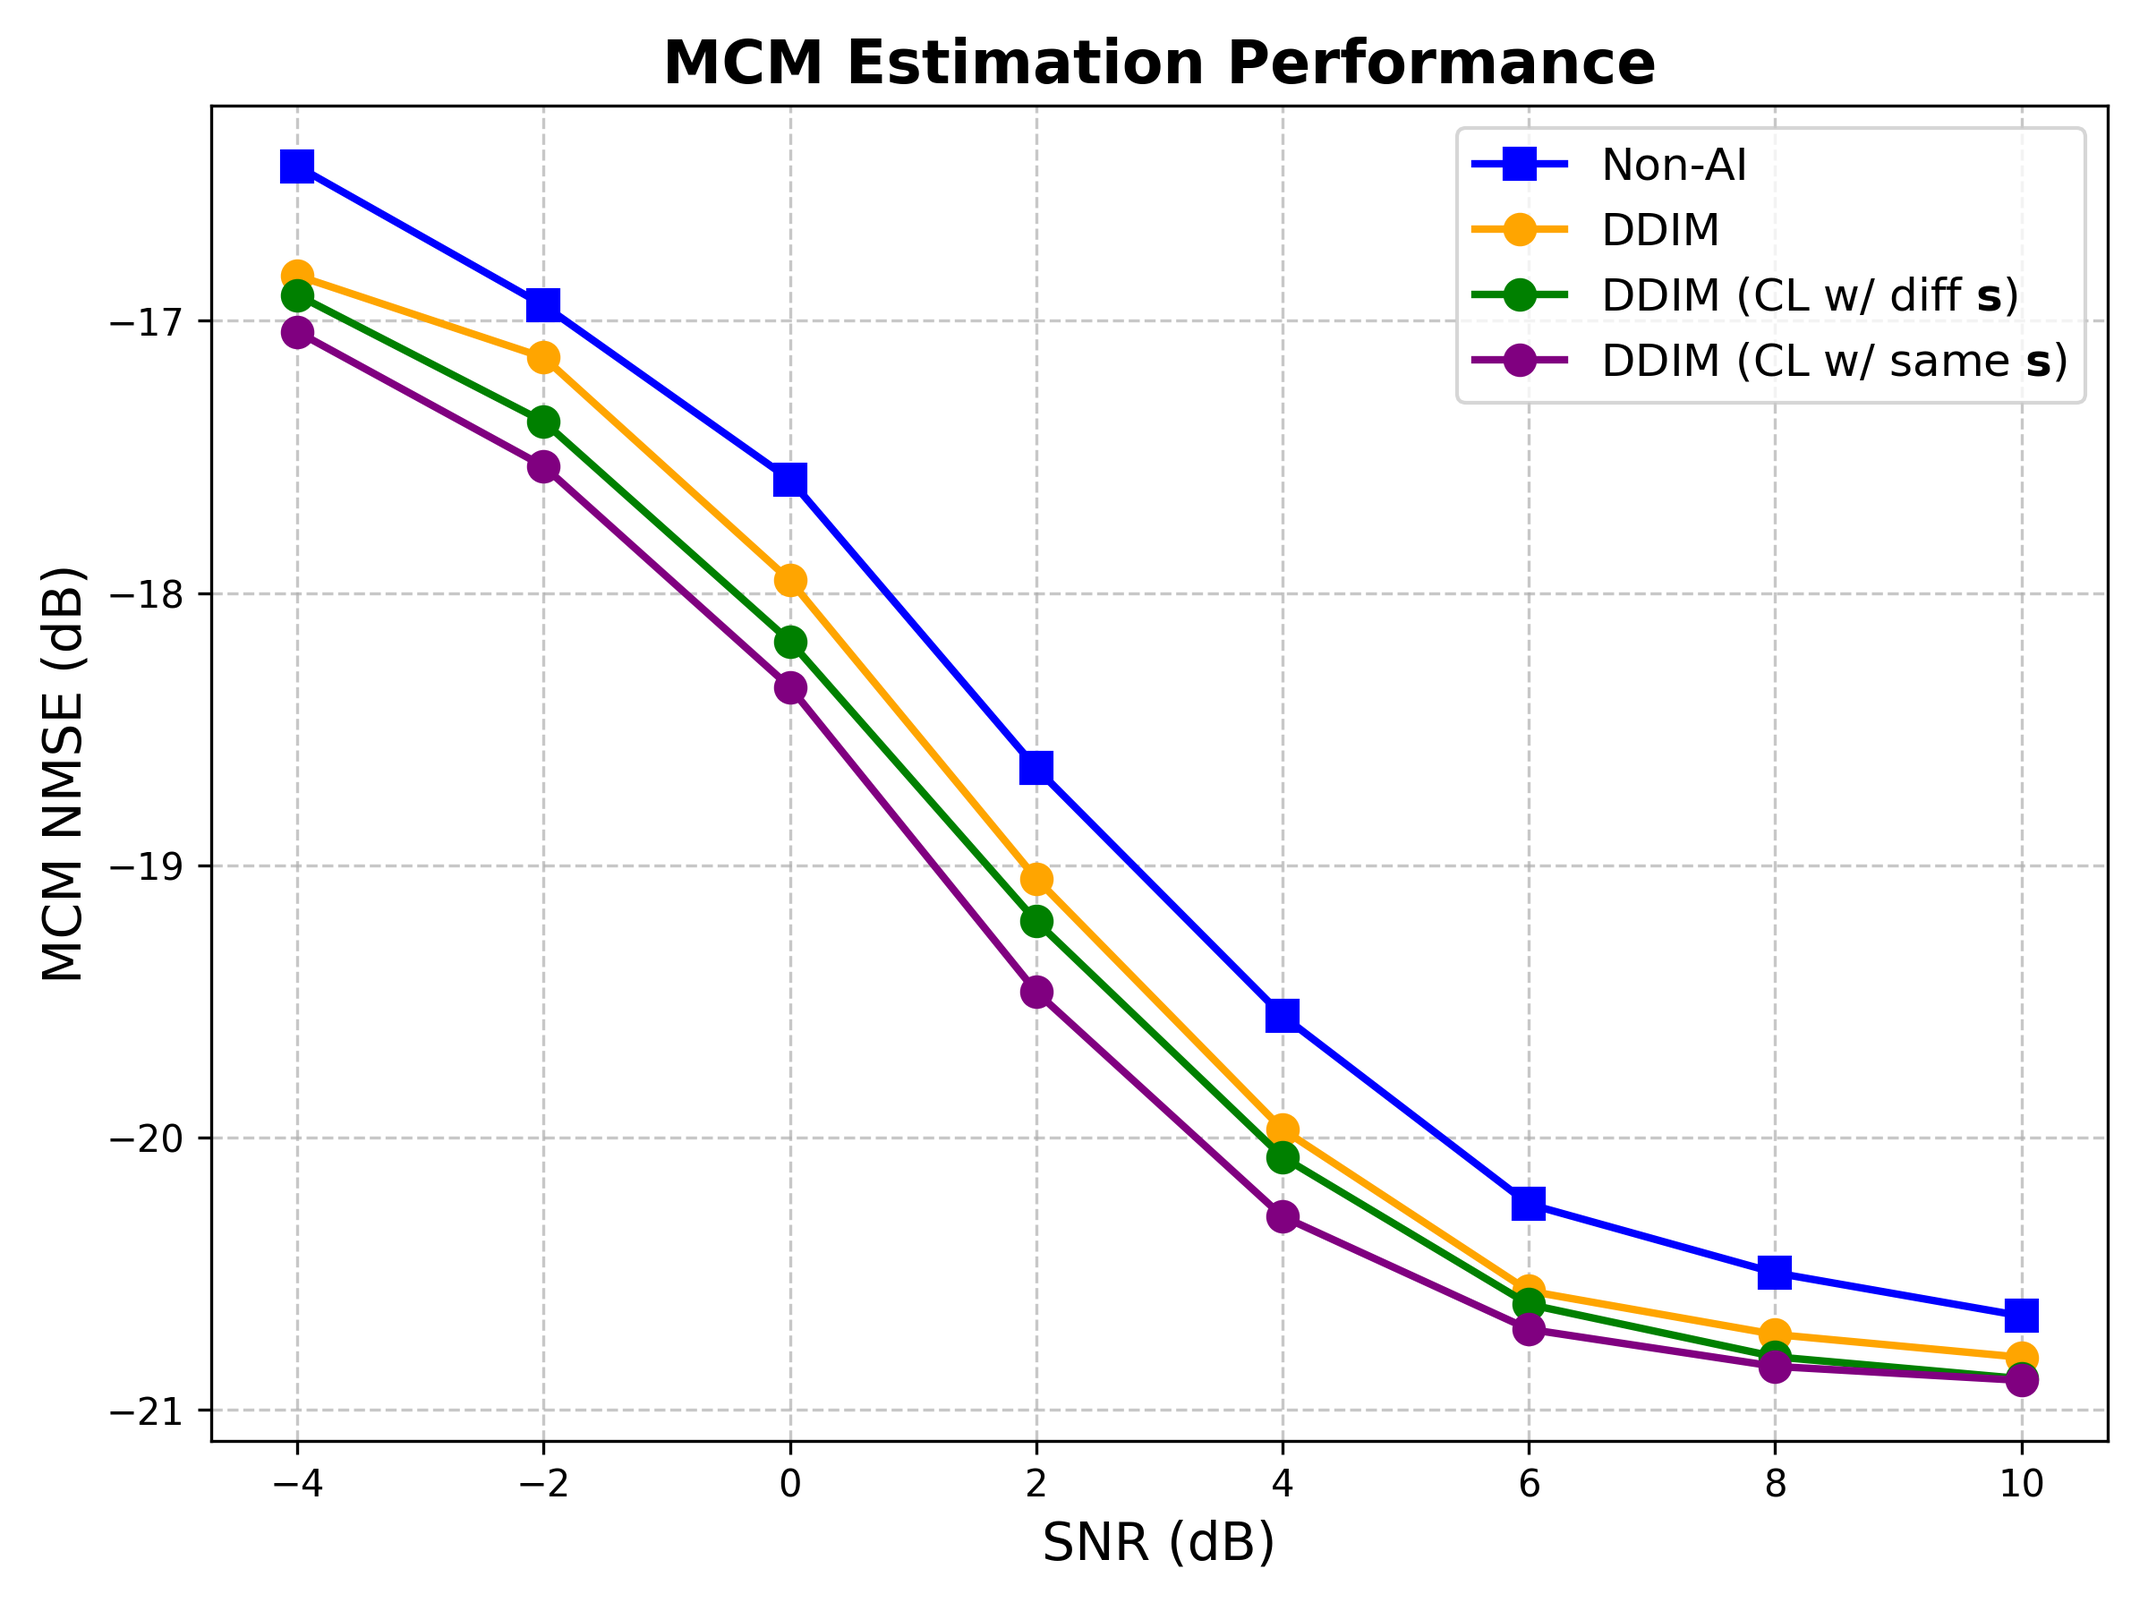
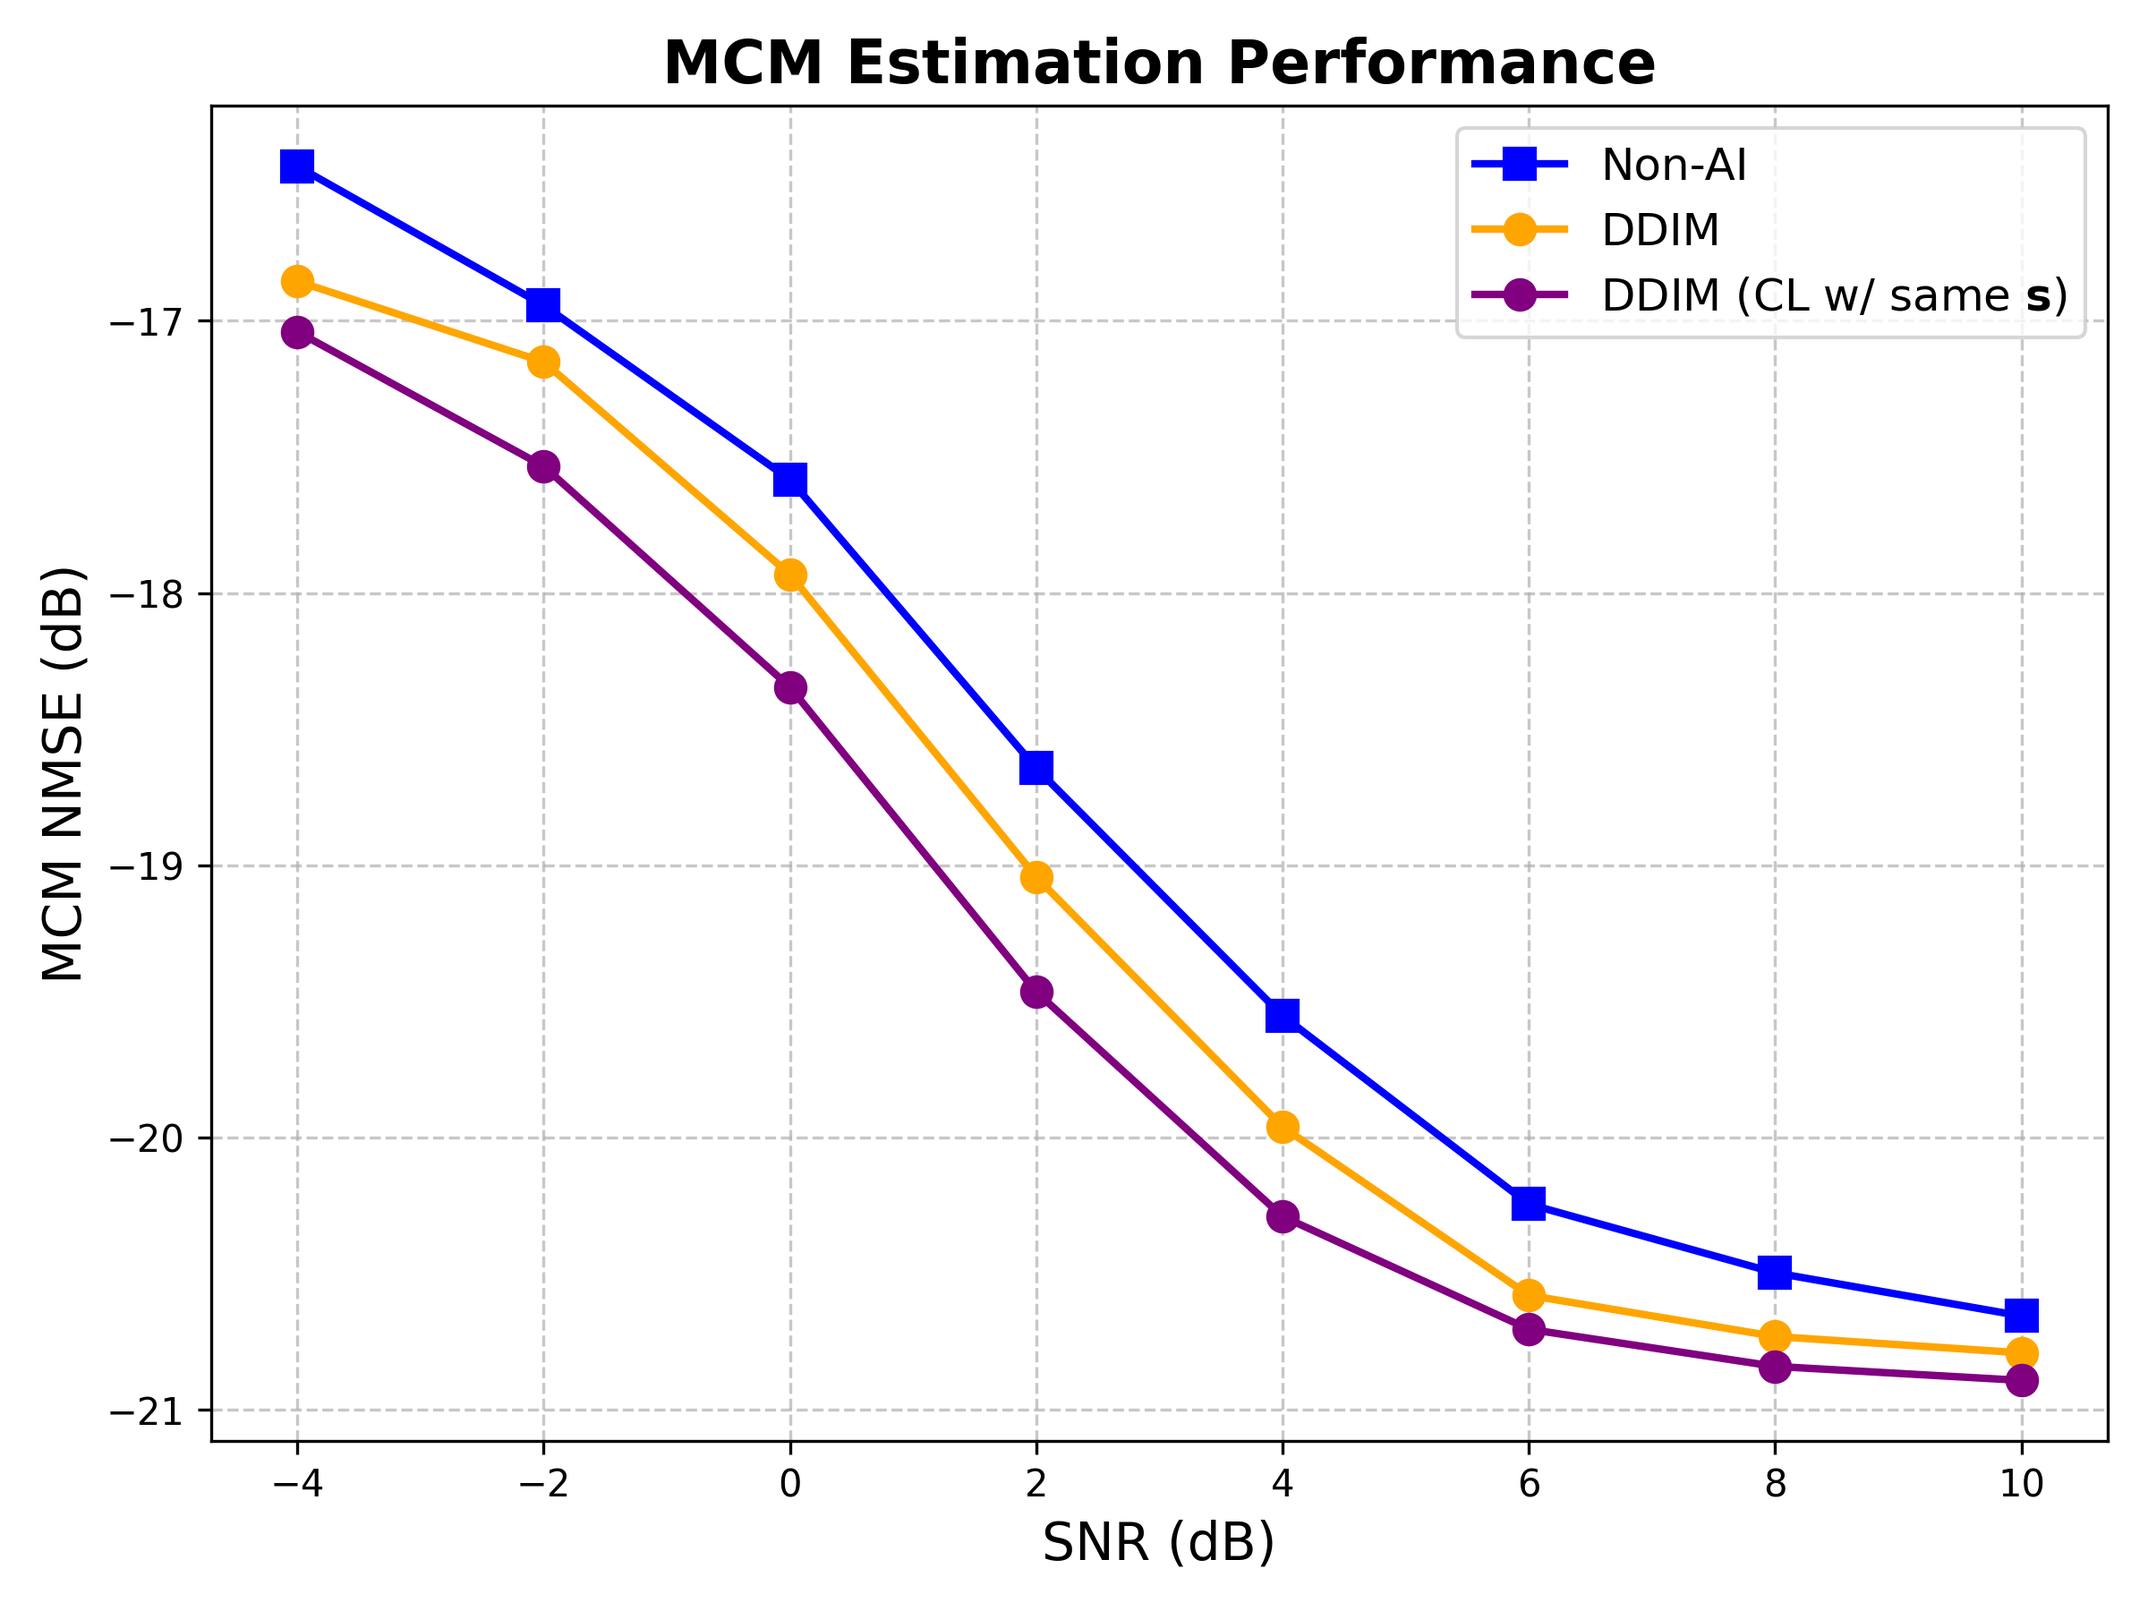
refactor: unify training scripts and update documentation
- Codebase: Replaced legacy dynamic lambda scripts with a unified `main_non_CL.py` that shares the CL architectural pipeline.
- Docs: Updated README with core method descriptions, repository structure, and testing procedures.

diff --git a/sim2/DDIM/main_non_CL.py b/sim2/DDIM/main_non_CL.py
@@ -13,7 +13,7 @@ SNR_LEVELS=[-4, -2, 0, 2, 4, 6, 8, 10]
 CUDA = 0
 
 # Training settings
-NUM_EPOCHS = 1000
+NUM_EPOCHS = 10000
 TRAIN_BATCH_SIZE = 1024
 LR = 1e-3
 MODEL_TYPE = 'mlp'  # 'unet1d' or 'mlp'
@@ -21,6 +21,8 @@ NUM_TRAIN_SAMPLES = int(5000)  # try 1e5
 NUM_TEST_SAMPLES = int(3000)    
 VAL_SPLIT = 0.1
 PATIENCE = 15
+contrastive_weight = 0
+temperature = 0.2
 
 # Difussion process settings
 BETA_MIN=1e-4
@@ -31,8 +33,8 @@ GUIDANCE_LAMBDA=1.2
 
 # testing settings
 TEST_BATCH_SIZE = 3000
-MODEL_WEIGHT_FILE_NAME = f"DDIM_{MODEL_TYPE}_lr{LR:.0e}_t{int(T_DIFFUSION)}.pth"
-NMSE_RESULT_FILE_NAME = f"NMSE_dy_{MODEL_WEIGHT_FILE_NAME.split('.')[0]}.mat"
+MODEL_WEIGHT_FILE_NAME = f"CL{contrastive_weight:.0e}_temp{temperature:.0e}_{MODEL_TYPE}lr{LR:.0e}.pth"
+NMSE_RESULT_FILE_NAME = f"NMSE_{MODEL_WEIGHT_FILE_NAME.split('.')[0]}.mat"
 
 # -----------------------------
 
@@ -45,7 +47,7 @@ torch.manual_seed(0)
 # -----------------------------
 if MODE == 'train':
     from data.data_loader import get_or_create_training_dataset
-    from train import train_epsilon_net
+    from train import train_latent_epsnet
     # -----------------------------
     # Load/generate training data
     # -----------------------------
@@ -56,10 +58,11 @@ if MODE == 'train':
     # -----------------------------
     print('[Info] Training epsilon net...')
     # Original: 'unet1d'
-    eps_net = train_epsilon_net(Xs_train, MODEL_TYPE, NUM_EPOCHS, TRAIN_BATCH_SIZE, LR,
+    eps_net = train_latent_epsnet(Xs_train, MODEL_TYPE, NUM_EPOCHS, TRAIN_BATCH_SIZE, LR,
                                 BETA_MIN, BETA_MAX, T_DIFFUSION, 
                                 VAL_SPLIT, PATIENCE,
-                                device, script_dir, MODEL_WEIGHT_FILE_NAME)
+                                device, script_dir, MODEL_WEIGHT_FILE_NAME,
+                                contrastive_weight, temperature)
 
 # -----------------------------
 # Testing part
@@ -77,7 +80,7 @@ elif MODE == 'test':
                                                 device, script_dir, use_toeplitz=True)
 
     print(f'[Info] Loading model...')
-    eps_net, data_mean, data_std = load_trained_model(script_dir, device, N, MODEL_TYPE, MODEL_WEIGHT_FILE_NAME)
+    eps_net, data_mean, data_std = load_trained_model(script_dir, device, N, MODEL_TYPE, MODEL_WEIGHT_FILE_NAME, use_CL=False)
 
     theta_nmse_results = []
     M_nmse_results = []

diff --git a/sim2/DDIM/models/epsnet_mlp.py b/sim2/DDIM/models/epsnet_mlp.py
@@ -6,6 +6,49 @@ class EpsNetMLP(nn.Module):
         super().__init__()
         # Time embedding block (unchanged)
         self.time_emb = nn.Sequential(
+            nn.Linear(1, time_emb_dim), nn.ReLU(), nn.Linear(time_emb_dim, time_emb_dim), nn.ReLU()
+        )
+        
+        # 1. Feature Extractor (The "Encoder")
+        # This produces the latent vector 'z' we want to contrast
+        self.feature_net = nn.Sequential(
+            nn.Linear(dim + time_emb_dim, hidden), nn.ReLU(),
+            nn.Linear(hidden, hidden), nn.ReLU()
+        )
+        
+        # 2. Output Head (The "Decoder")
+        # Projects 'z' back to the noise dimension
+        self.head = nn.Linear(hidden, dim)
+
+    def forward(self, x, t_cont, return_embedding=False):
+        # x: (B, dim)
+        # Handle time input shape normalization (unchanged logic)
+        if t_cont.dim() == 0 or (t_cont.dim() == 1 and t_cont.shape[-1] == 1):
+             # Ensure shape (B, 1) if scalar or (B,) passed
+             if t_cont.numel() == 1:
+                 t_in = t_cont.float().view(1, 1).expand(x.shape[0], -1)
+             else:
+                 t_in = t_cont.float().view(-1, 1)
+        else:
+            t_in = (t_cont.float().unsqueeze(-1))
+        t_in = t_in / 1000.0  # normalize time input
+        te = self.time_emb(t_in)
+        inp = torch.cat([x, te], dim=-1)
+        
+        # 1. Extract Features (Embedding z)
+        z = self.feature_net(inp)
+        # 2. Predict Noise
+        out = self.head(z)
+        if return_embedding:
+            return out, z
+        else:
+            return out
+
+class LatentEpsNet(nn.Module):
+    def __init__(self, dim, hidden=512, time_emb_dim=128):
+        super().__init__()
+        # Time embedding block (unchanged)
+        self.time_emb = nn.Sequential(
             nn.Linear(1, time_emb_dim), 
             nn.ReLU(), 
             nn.Linear(time_emb_dim, time_emb_dim), 

diff --git a/sim2/DDIM/main_contrastive_learning.py b/sim2/DDIM/main_contrastive_learning.py
@@ -47,7 +47,7 @@ torch.manual_seed(0)
 # -----------------------------
 if MODE == 'train':
     from data.data_loader import get_or_create_training_dataset
-    from train import train_epsilon_net
+    from train import train_latent_epsnet
     # -----------------------------
     # Load/generate training data
     # -----------------------------
@@ -58,7 +58,7 @@ if MODE == 'train':
     # -----------------------------
     print('[Info] Training epsilon net...')
     # Original: 'unet1d'
-    eps_net = train_epsilon_net(Xs_train, MODEL_TYPE, NUM_EPOCHS, TRAIN_BATCH_SIZE, LR,
+    eps_net = train_latent_epsnet(Xs_train, MODEL_TYPE, NUM_EPOCHS, TRAIN_BATCH_SIZE, LR,
                                 BETA_MIN, BETA_MAX, T_DIFFUSION, 
                                 VAL_SPLIT, PATIENCE,
                                 device, script_dir, MODEL_WEIGHT_FILE_NAME,
@@ -80,7 +80,7 @@ elif MODE == 'test':
                                                 device, script_dir, use_toeplitz=True)
 
     print(f'[Info] Loading model...')
-    eps_net, data_mean, data_std = load_trained_model(script_dir, device, N, MODEL_TYPE, MODEL_WEIGHT_FILE_NAME)
+    eps_net, data_mean, data_std = load_trained_model(script_dir, device, N, MODEL_TYPE, MODEL_WEIGHT_FILE_NAME, use_CL=True)
 
     theta_nmse_results = []
     M_nmse_results = []

diff --git a/sim2/DDIM/train.py b/sim2/DDIM/train.py
@@ -26,7 +26,7 @@ def info_nce_loss(features_a, features_b, temperature=0.1):
 
     return F.cross_entropy(logits, labels)
 
-def train_epsilon_net(Xs, model_type='mlp', num_epochs=5, batch_size=64, lr=1e-3,
+def train_latent_epsnet(Xs, model_type='mlp', num_epochs=5, batch_size=64, lr=1e-3,
                       beta_min=1e-4, beta_max=0.02, T=50,
                       val_split=0.1, patience=15, # Early stopping params
                       device=None, script_dir=None, model_file_name=None,
@@ -72,7 +72,8 @@ def train_epsilon_net(Xs, model_type='mlp', num_epochs=5, batch_size=64, lr=1e-3
     print(f"[Info] Training Scenarios: {num_train_s} (x{Lloc} snapshots) | Validation Snapshots: {num_val_total}")
 
     # --- 2. Model & Optimizer Setup ---
-    from models.epsnet_mlp import EpsNetMLP as Net
+    if contrastive_weight != 0.0: from models.epsnet_mlp import LatentEpsNet as Net
+    else: from models.epsnet_mlp import EpsNetMLP as Net
     net = Net(dim=dim, hidden=1024, time_emb_dim=128).to(device)
     
     opt = torch.optim.Adam(net.parameters(), lr=lr)
@@ -226,3 +227,4 @@ def train_epsilon_net(Xs, model_type='mlp', num_epochs=5, batch_size=64, lr=1e-3
             print(f"Best model saved to {save_path}")
 
     return net
+

diff --git a/sim2/DDIM/models/eps_net_loader.py b/sim2/DDIM/models/eps_net_loader.py
@@ -2,7 +2,7 @@ import os
 import torch
 
 # Load a trained epsilon net model from saved weights
-def load_trained_model(script_dir, device, N, model_type='mlp', file_name= None):
+def load_trained_model(script_dir, device, N, model_type='mlp', file_name=None, use_CL=False):
 
     weights_dir = os.path.join(script_dir, "weights")
     file_path = os.path.join(weights_dir, file_name)
@@ -17,8 +17,12 @@ def load_trained_model(script_dir, device, N, model_type='mlp', file_name= None)
         from models.epsnet_unet1d import EpsNetUNet1D as Net
         eps_net = Net(dim=2*N).to(device)
     else:
-        from models.epsnet_mlp import EpsNetMLP as Net
-        eps_net = Net(dim=2*N, hidden=1024, time_emb_dim=128).to(device)
+        if use_CL:
+            from models.epsnet_mlp import LatentEpsNet as Net
+            eps_net = Net(dim=2*N, hidden=1024, time_emb_dim=128).to(device)
+        else:
+            from models.epsnet_mlp import EpsNetMLP as Net
+            eps_net = Net(dim=2*N, hidden=1024, time_emb_dim=128).to(device)
 
     eps_net.load_state_dict(checkpoint['model_state_dict']); 
     eps_net.eval()

diff --git a/sim2/DDIM/test_results/NMSE_plot.py b/sim2/DDIM/test_results/NMSE_plot.py
@@ -11,7 +11,7 @@ import numpy as np
 FILES = {
     "Non-AI": "NMSE_Baseline_non_AI.mat",
     "DDIM":  "NMSE_CL0e+00_temp2e-01_mlplr1e-03.mat",
-    "DDIM (CL w/ diff $\mathbf{s}$)" :  "NMSE_CL1e-01_temp2e-01_mlp_lr1e-03.mat",
+    # "DDIM (CL w/ diff $\mathbf{s}$)" :  "NMSE_CL1e-01_temp2e-01_mlp_lr1e-03.mat",
     "DDIM (CL w/ same $\mathbf{s}$)" :  "NMSE_CL1e-01_same_x0_temp2e-01_mlp_lr1e-03.mat",
     
 }
@@ -33,13 +33,13 @@ STYLES = {
         'linewidth': 2, 
         'markersize': 8
     },
-    "DDIM (CL w/ diff $\mathbf{s}$)": {
-        'color': 'green', 
-        'marker': 'o', 
-        'linestyle': '-',  
-        'linewidth': 2, 
-        'markersize': 8
-    },
+    # "DDIM (CL w/ diff $\mathbf{s}$)": {
+    #     'color': 'green', 
+    #     'marker': 'o', 
+    #     'linestyle': '-',  
+    #     'linewidth': 2, 
+    #     'markersize': 8
+    # },
     "DDIM (CL w/ same $\mathbf{s}$)": {
         'color': 'purple', 
         'marker': 'o', 

diff --git a/sim2/DDIM/README.md b/sim2/DDIM/README.md
@@ -1,22 +1,45 @@
-## `README.md`
-```
-Modular project for epsilon-net DDIM guided sampling and stable alternating EM for DOA and mutual coupling matrix estimation.
-Files:
-- models/epsnet_mlp.py
-- models/epsnet_unet1d.py
-- diffusion/continuous_beta.py
-- diffusion/ddim_sampler_parallel.py
-- diffusion/physics_guidance.py
-- em/stable_em.py
-- data/generator.py
-- train.py
-- main.py
+# Score-Guided Diffusion for DOA and MCM Estimation
 
-Run `python main.py` to run an end-to-end test (simulates data, trains small epsilon-net, runs DDIM batch sampler, then stable EM).
+This repository implements a score-guided diffusion framework (DDIM) for joint Direction of Arrival (DOA) and Mutual Coupling Matrix (MCM) estimation.
 
-# Notes
-#
-# - The modular code aims to vectorize the DDIM guided sampler over all L snapshots (file `diffusion/ddim_sampler_parallel.py`).
-# - Physics-informed helpers are in `diffusion/physics_guidance.py` (Toeplitz projection, simple energy normalization).  Use these during sampling via `apply_physics_projection=True`.
-# - The EM in `em/stable_em.py` uses backtracking-style reversion if a gradient step increases the loss; it enforces `M[0,0] = 1` at projection steps.
-# - This is a starting implementation — tune hyperparameters, SNR-aware `sigma_y2`, and the projection strength for best performance.
+## Core Methods
+1. **Non-AI**: Baseline alternating EM optimization without neural denoising.
+2. **DDIM (w/o CL)**: Standard DDIM guided sampling using a supervised MLP/UNet.
+3. **DDIM (w/ CL)**: DDIM guided sampling using an MLP trained with Contrastive Learning (InfoNCE) for noise-invariant feature extraction.
+
+## Repository Structure
+- `main_contrastive_learning.py`: Entry point for CL-based training and testing.
+- `main_non_CL.py`: Entry point for standard supervised training and testing.
+- `test_baseline_non_AI.py`: Script to run the non-AI optimization baseline.
+- `train.py`: Contains training loops for both standard and contrastive loss.
+- `models/`: Architecture definitions (`epsnet_mlp.py`, `epsnet_unet1d.py`).
+- `diffusion/`: DDIM sampling logic and continuous noise schedules.
+- `em/`: Batch-parallelized alternating EM algorithm.
+- `data/`: Dataset generation and loading utilities.
+- `test_results/`: 
+    - `NMSE_raw_mats/`: Storage for `.mat` result files.
+    - `NMSE_plot_png/`: Exported performance curves.
+    - `NMSE_plot.py`: Aggregator script to plot results from different methods.
+
+## Workflow
+
+### 1. Training
+Set `RUN_ID = 1` in `main_contrastive_learning.py` or `main_non_CL.py`.
+- **Process**: Generates training data (if missing) and trains the epsilon-net.
+- **Output**: Model checkpoints (weights, mean, std) are saved in the `weights/` directory.
+
+### 2. Testing
+Set `RUN_ID = 2` in the respective main scripts (`main_non_CL.py` or `main_contrastive_learning.py`).
+
+* **Process Details**:
+    * **Model Loading**: Retrieves the best-trained weights and normalization statistics from the `weights/`.
+    * **DDIM Parallel Denoising**: Performs deterministic reverse diffusion to recover the clean signal $\hat{x}_0$. This is implemented in `diffusion/ddim_sampler_parallel.py`, which supports vectorized sampling and incorporates physical guidance.
+    * **Batch EM Estimation**: The denoised $\hat{x}_0$ is passed to the EM algorithm in `em/stable_em_batch.py`. This script parallelizes alternating minimization to jointly estimate DOAs (initialized by batch MUSIC) and the MCM (assumed Toeplitz).
+    * **Metric Accumulation**: The `NMSEAccumulator` class in `test_results/NMSE_calculation.py` tracks the error for $x_0$, DOA, and MCM across all mini-batches.
+
+* **Output**: 
+    * Final averaged NMSE results for each SNR level are saved as `.mat` files in `test_results/NMSE_raw_mats/`.
+
+### 3. Visualization
+Run `python test_results/NMSE_plot.py`.
+- This script reads the `.mat` files generated during testing and produces comparison plots in `test_results/NMSE_plot_png/`.
